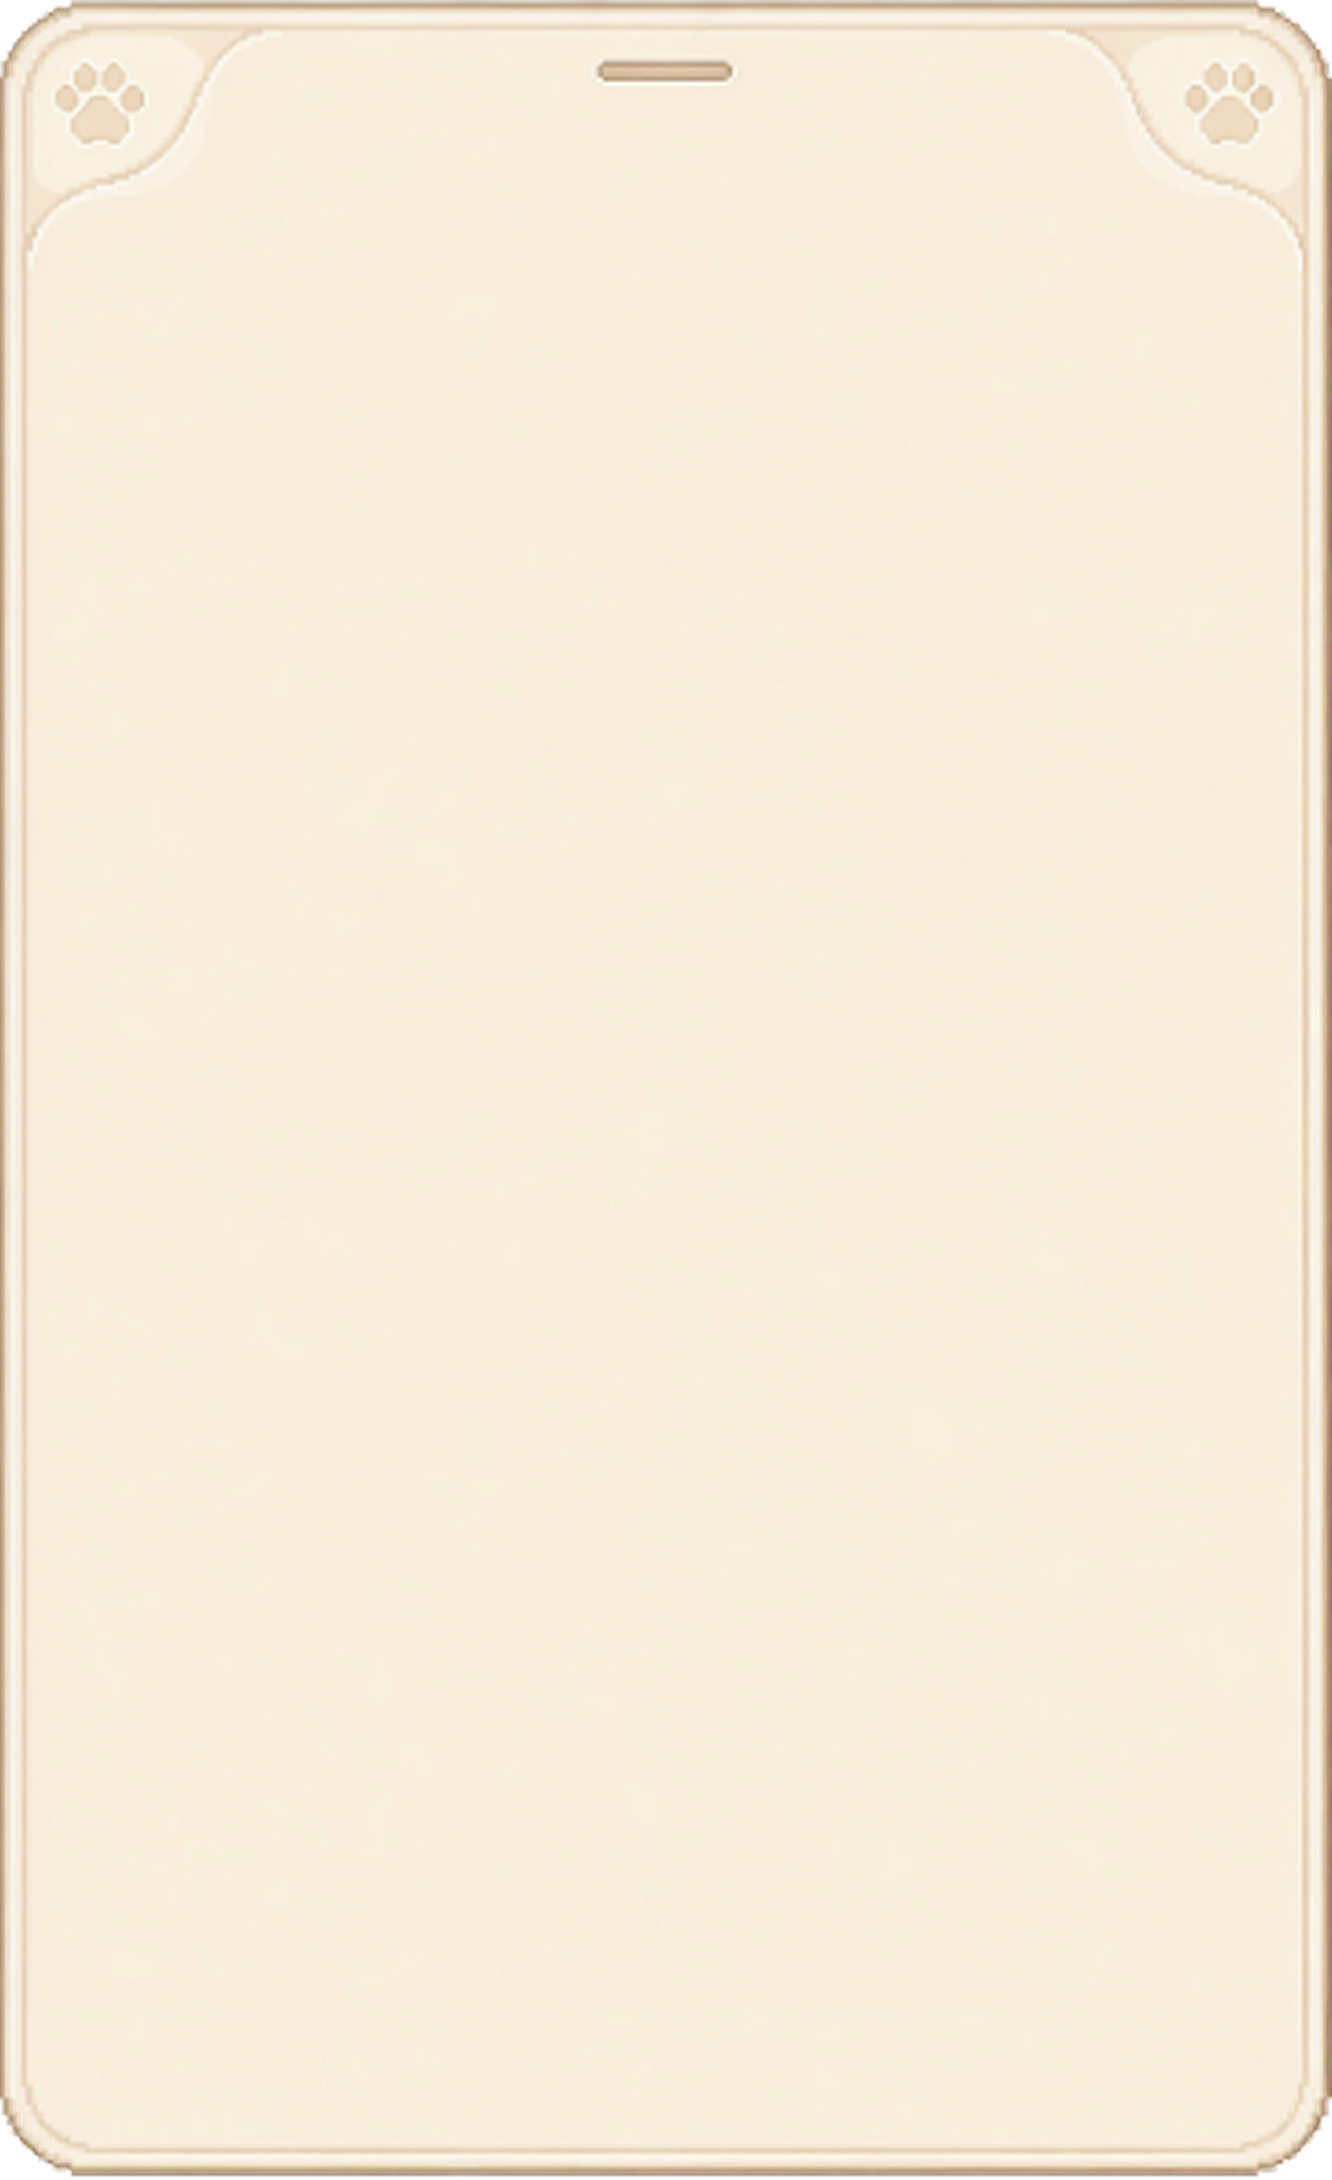
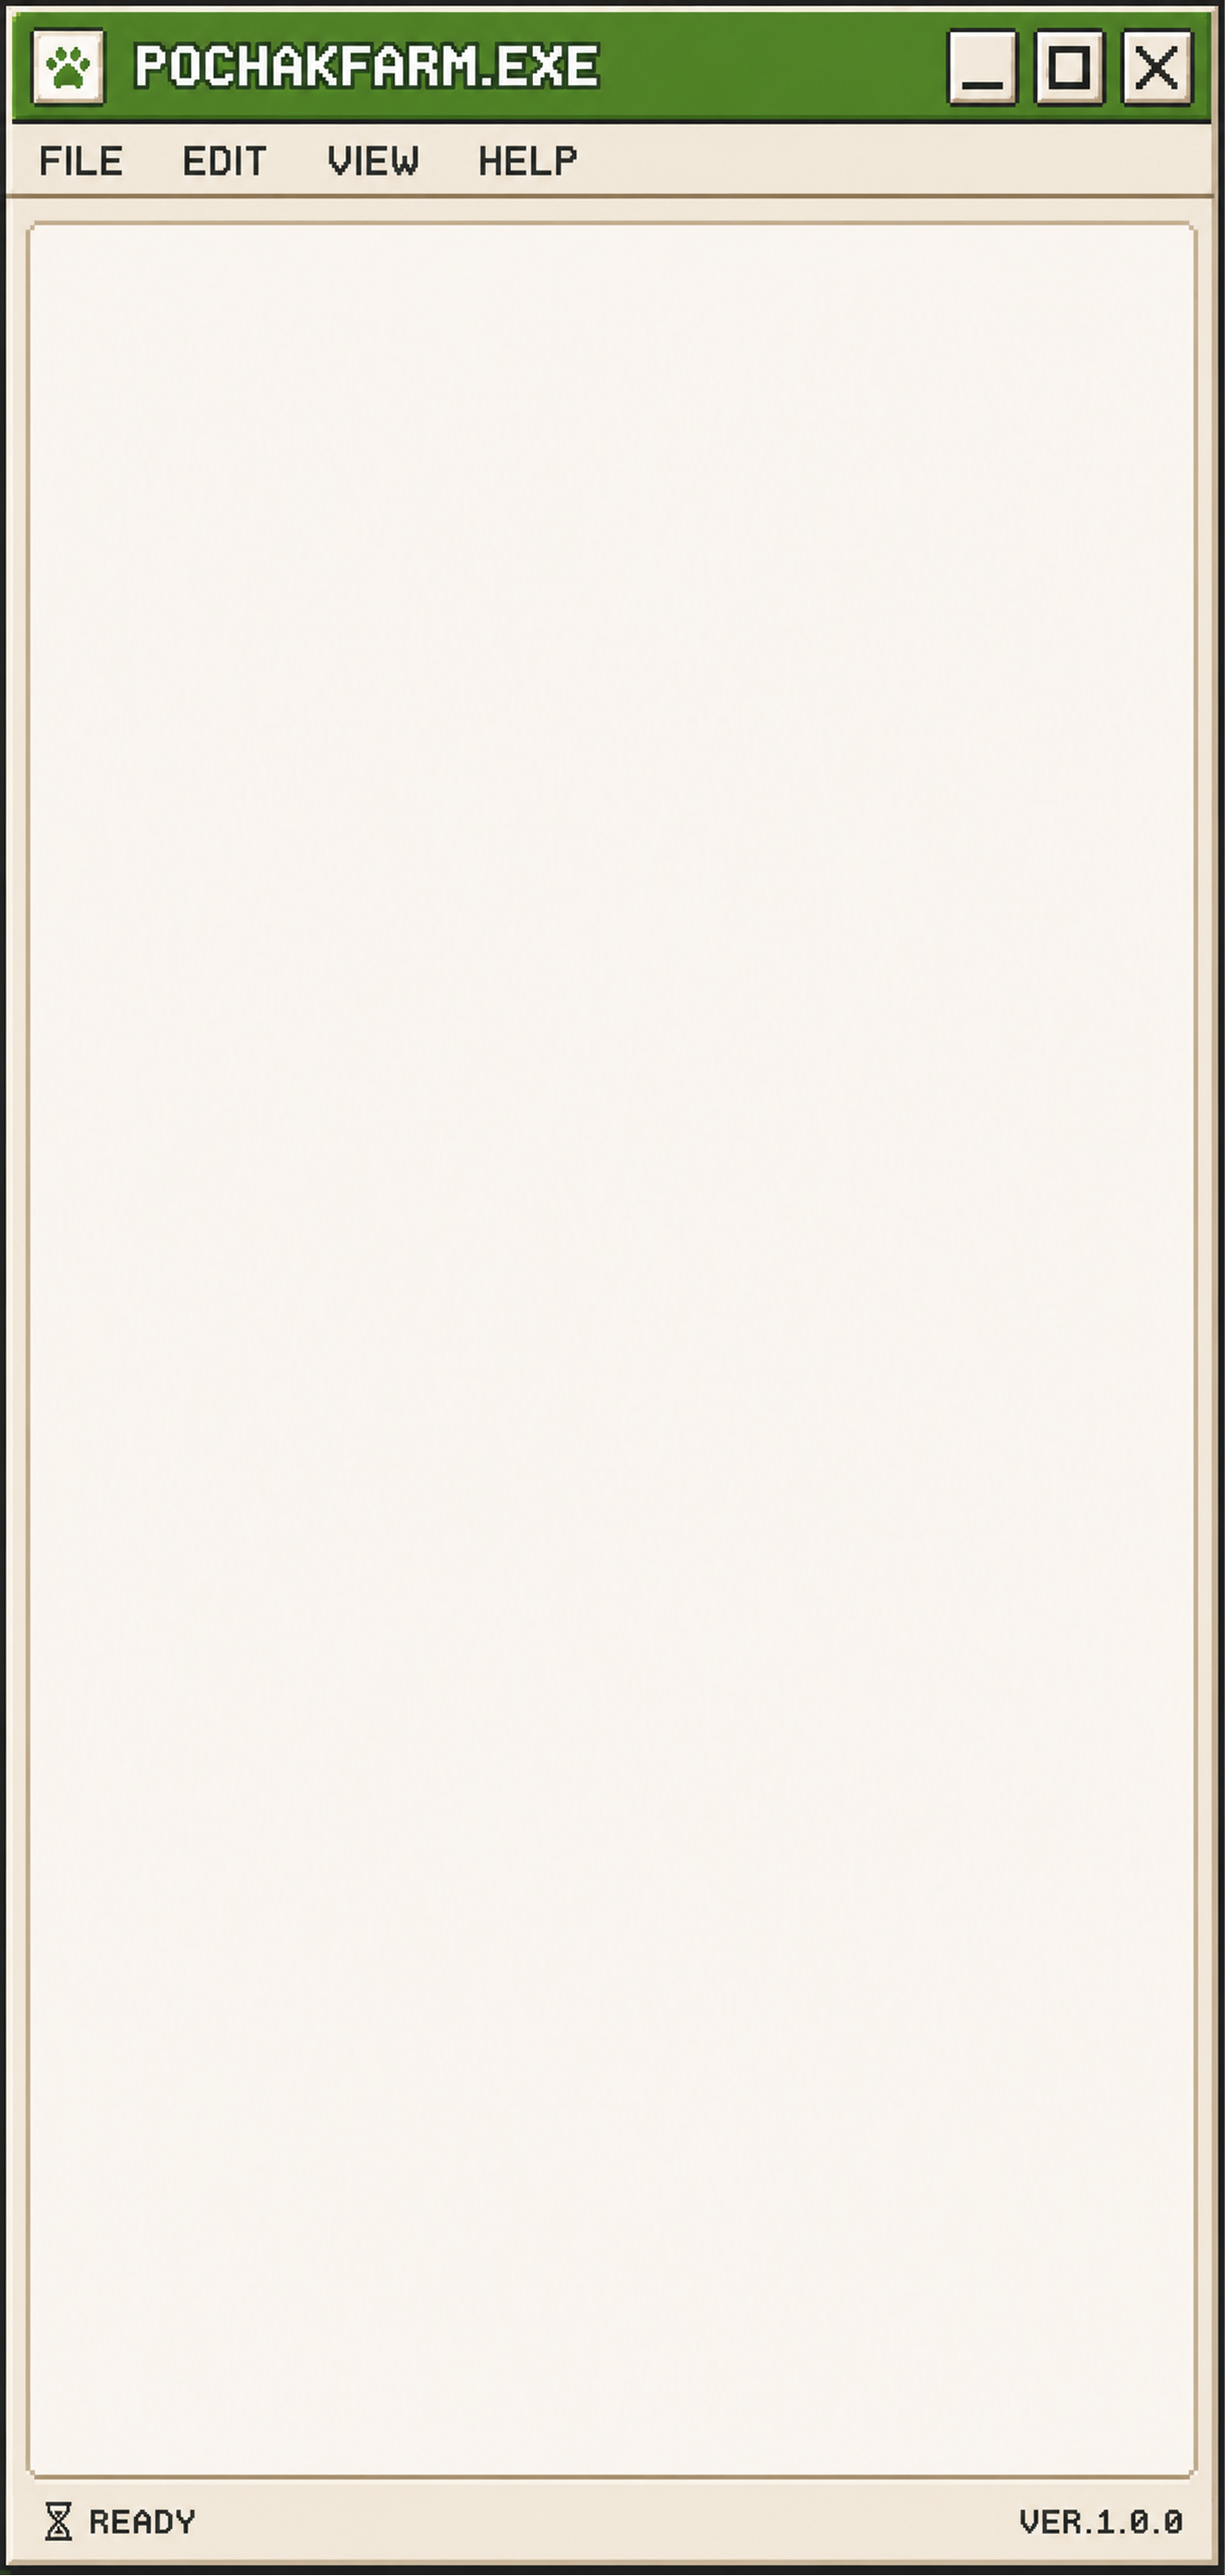
feat: update coupon modal artwork

Changed region(s): [[0.0, 0.0, 1.0, 1.0]]

diff --git a/styles.css b/styles.css
@@ -61,9 +61,7 @@ button { cursor: pointer; }
   border: 2px solid rgba(49, 109, 169, .6); border-radius: 12px;
   box-shadow: 0 3px 0 #8dbedf, 0 4px 8px rgba(42, 105, 164, .2);
 }
-.brand-copy { display: grid; line-height: 1; }
-.brand-copy strong { font-family: inherit; color: #438e34; font-size: 23px; letter-spacing: -1px; }
-.brand-copy small { font-size: 8px; font-weight: 800; letter-spacing: 2.1px; color: #967345; margin-top: 4px; }
+.brand-title { display: block; width: 126px; height: auto; }
 
 .account-pill { display: flex; align-items: center; gap: 9px; color: #42602f; font-weight: 700; font-size: 13px; }
 .account-pill .avatar { width: 34px; height: 34px; display: grid; place-items: center; background: #ffe793; border: 2px solid #9d753f; border-radius: 50%; }
@@ -73,22 +71,25 @@ button { cursor: pointer; }
 .eyebrow { display: flex; align-items: center; justify-content: center; gap: 9px; color: #417f39; font-size: 11px; font-weight: 900; letter-spacing: 2px; text-shadow: 0 1px #fff; }
 .eyebrow span { color: #ffd554; -webkit-text-stroke: 1px #a66d20; font-size: 15px; }
 h1 { font-family: inherit; font-size: clamp(34px, 8vw, 48px); margin: 9px 0 7px; letter-spacing: -2px; color: #fffbed; -webkit-text-stroke: 2px #4b7838; paint-order: stroke fill; text-shadow: 0 4px 0 #315f2a, 0 7px 0 rgba(43,79,27,.2); }
-.hero > p { margin: 0; font-weight: 700; font-size: 15px; line-height: 1.65; color: #38512e; text-shadow: 0 1px 0 rgba(255,255,255,.8); }
+h1 img { display: block; width: min(100%, 360px); height: auto; margin: 0 auto; }
+.sr-only { position: absolute; width: 1px; height: 1px; padding: 0; margin: -1px; overflow: hidden; clip: rect(0, 0, 0, 0); white-space: nowrap; border: 0; }
+.modal-intro { margin-bottom: clamp(60px, 12vw, 90px); transform: translateY(48px); }
 
 .game-card {
   width: min(100%, 430px);
-  aspect-ratio: 1440 / 2357;
+  aspect-ratio: 1324 / 2784;
   margin: 25px auto 0;
-  padding: 12% 7% 5%;
+  padding: 10% 5% 5%;
   background: url("/assets/bottom-sheet.png") center/100% 100% no-repeat;
 }
-.card-inner { height: 100%; padding: 20px 16px; background: transparent; border: 0; border-radius: 0; position: relative; overflow: hidden; display: flex; flex-direction: column; justify-content: center; }
+.modal-content { height: 100%; display: flex; flex-direction: column; justify-content: flex-start; padding-top: 8%; }
+#app-card { width: 100%; }
+.card-inner { padding: 20px 16px; background: transparent; border: 0; border-radius: 0; position: relative; overflow: visible; display: flex; flex-direction: column; justify-content: center; }
 .card-inner::before, .card-inner::after { content: none; }
 .card-icon { width: 66px; height: 66px; margin: 0 auto 12px; display: grid; place-items: center; font-size: 37px; background: #eaf7ce; border: 3px solid #80a853; border-radius: 18px; box-shadow: inset -5px -5px rgba(84,145,57,.13), 0 4px #ceb86d; }
-.card-icon.login-logo { overflow: hidden; padding: 0; background: transparent; border-color: #fff; }
-.card-icon.login-logo img { display: block; width: 100%; height: 100%; object-fit: cover; }
 .card-title { font-family: inherit; font-size: 27px; margin: 0 0 7px; color: #4b3722; }
-.card-copy { margin: 0 auto 21px; color: var(--muted); font-size: 13px; line-height: 1.65; }
+.card-copy { margin: 0 auto 21px; color: var(--muted); font-size: clamp(10px, 3vw, 13px); line-height: 1.65; white-space: nowrap; }
+.login-controls { transform: translateY(-36px); }
 
 .social-button, .primary-button, .secondary-button { width: 100%; min-height: 54px; border-radius: 13px; font-weight: 800; border: 0; transition: transform .15s, filter .15s; }
 .social-button:hover, .primary-button:hover, .secondary-button:hover { filter: brightness(1.04); transform: translateY(-1px); }
@@ -97,6 +98,10 @@ h1 { font-family: inherit; font-size: clamp(34px, 8vw, 48px); margin: 9px 0 7px;
 .social-button { display: block; width: min(100%, 300px); min-height: 0; margin: 0 auto; padding: 0; overflow: hidden; background: transparent; }
 .social-button img { display: block; width: 100%; height: auto; }
 .social-button:focus-visible { outline: 4px solid rgba(73, 54, 34, .45); outline-offset: 3px; }
+.reservation-rewards { display: flex; flex-direction: column; gap: 0; width: 100%; margin-top: 12px; }
+.reservation-rewards img { display: block; width: min(55%, 195px); height: auto; }
+.reservation-rewards img:nth-child(odd) { align-self: flex-start; transform: translateX(25%); }
+.reservation-rewards img:nth-child(even) { align-self: flex-end; transform: translateX(-25%); }
 .coupon-label { display: block; text-align: left; font-size: 12px; font-weight: 900; color: #6b583e; margin-bottom: 7px; }
 .coupon-input { width: 100%; height: 55px; border-radius: 12px; border: 3px solid #d9bf8c; background: #fff; color: #3f3529; padding: 0 15px; text-align: center; font-weight: 800; font-size: 16px; letter-spacing: 1px; outline: none; text-transform: uppercase; box-shadow: inset 0 3px rgba(121,89,44,.06); }
 .coupon-input::placeholder { letter-spacing: 0; font-weight: 600; color: #baa98e; text-transform: none; }
@@ -128,7 +133,7 @@ h1 { font-family: inherit; font-size: clamp(34px, 8vw, 48px); margin: 9px 0 7px;
   body { background-position: center center; }
   .topbar { height: 54px; padding: 0 13px; border-bottom-width: 3px; }
   .brand-mark { width: 32px; height: 32px; border-radius: 9px; }
-  .brand-copy strong { font-size: 20px; }
+  .brand-title { width: 105px; }
   .account-pill .name { display: none; }
   .hero { padding-top: 35px; }
   .mobile-only { display: initial; }

diff --git a/app.js b/app.js
@@ -82,13 +82,19 @@ function logout() {
 
 function loginView() {
   return `<div class="card-inner">
-    <div class="card-icon login-logo" aria-hidden="true"><img src="/assets/pochakfarm-logo.png" alt="" /></div>
-    <h2 class="card-title">먼저 로그인해주세요!</h2>
-    <p class="card-copy">쿠폰 보상을 받을<br />포착팜 계정으로 로그인해주세요.</p>
-    <div class="social-buttons" aria-label="소셜 로그인">
-      <button class="social-button" data-provider="kakao" type="button" aria-label="카카오 로그인"><img src="/assets/login-kakao.png" alt="" /></button>
-      <button class="social-button" data-provider="naver" type="button" aria-label="네이버 로그인"><img src="/assets/login-naver.png" alt="" /></button>
-      <button class="social-button" data-provider="apple" type="button" aria-label="Apple 로그인"><img src="/assets/login-apple.png" alt="" /></button>
+    <div class="login-controls">
+      <h2 class="card-title">먼저 로그인해주세요!</h2>
+      <p class="card-copy">쿠폰 보상을 받을 포착팜 계정으로 로그인해주세요.</p>
+      <div class="social-buttons" aria-label="소셜 로그인">
+        <button class="social-button" data-provider="kakao" type="button" aria-label="카카오 로그인"><img src="/assets/login-kakao.png" alt="" /></button>
+        <button class="social-button" data-provider="naver" type="button" aria-label="네이버 로그인"><img src="/assets/login-naver.png" alt="" /></button>
+        <button class="social-button" data-provider="apple" type="button" aria-label="Apple 로그인"><img src="/assets/login-apple.png" alt="" /></button>
+      </div>
+    </div>
+    <div class="reservation-rewards" aria-label="사전예약 보상">
+      <img src="/assets/reward-01.png" alt="01 S등급 캐릭터 카드 무료 획득" />
+      <img src="/assets/reward-02.png" alt="02 1기 포착단 한정 배지 증정" />
+      <img src="/assets/reward-03.png" alt="03 더 많은 포착을 위한 3,000 코인 증정" />
     </div>
   </div>`;
 }

diff --git a/index.html b/index.html
@@ -18,17 +18,22 @@
       <header class="topbar" aria-label="포착팜 헤더">
         <a class="brand" href="/coupon" aria-label="포착팜 쿠폰 홈">
           <img class="brand-mark" src="/assets/pochakfarm-logo.png" alt="" />
-          <span class="brand-copy"><strong>포착팜</strong><small>POCHAK FARM</small></span>
+          <img class="brand-title" src="/assets/header-brand.png" alt="" />
+          <span class="sr-only">포착팜</span>
         </a>
         <div id="account-area"></div>
       </header>
 
       <section class="hero" aria-live="polite">
-        <div class="eyebrow"><span>✦</span> SPECIAL COUPON <span>✦</span></div>
-        <h1>포착팜 사전예약 쿠폰 등록</h1>
-        <p>쿠폰을 등록하고<br class="mobile-only" /> 특별한 농장 보상을 받아보세요!</p>
-
-        <div id="app-card" class="game-card"></div>
+        <div class="game-card">
+          <div class="modal-content">
+            <div class="modal-intro">
+              <div class="eyebrow"><span>✦</span> SPECIAL COUPON <span>✦</span></div>
+              <h1><img src="/assets/reservation-coupon-title.png" alt="" /><span class="sr-only">포착팜 사전예약 쿠폰 등록</span></h1>
+            </div>
+            <div id="app-card"></div>
+          </div>
+        </div>
         <p class="help-text"><span aria-hidden="true">🌱</span> 쿠폰은 계정당 1회만 사용할 수 있어요.</p>
       </section>
     </main>
